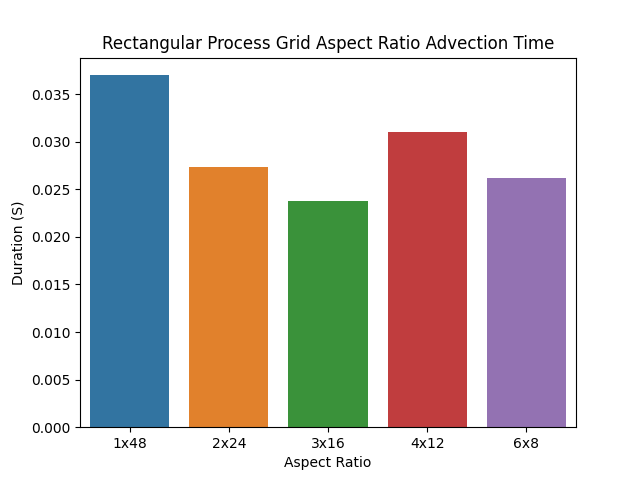
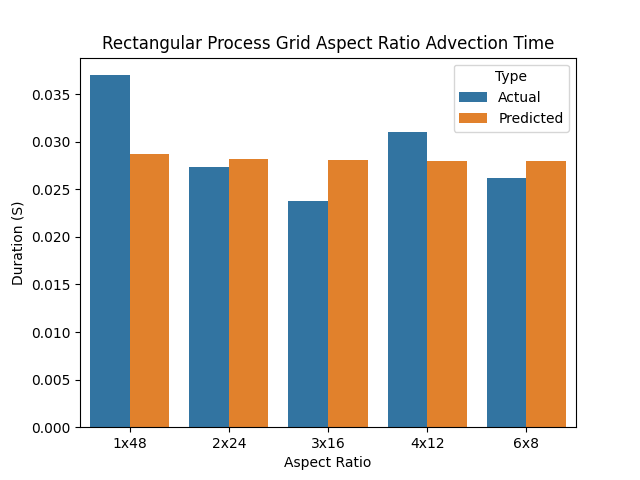
Created script for graphing aspect ratios

Changed region(s): [[0.4375, 0.125, 0.9062, 0.9062], [0.1875, 0.1562, 0.4375, 0.9062]]

diff --git a/aspect.py b/aspect.py
@@ -9,7 +9,7 @@ t_w = 6.469449853897094e-10
 t_f = 1.8141993761502122e-09
 
 def model(r,m,n,p,q):
-    return r * (2 * (((4 * m * t_w)/(p)) + t_s) + ((m * n * t_f)/(p * q)))
+    return r * (8 * (((m * t_w) / p) + ((n * t_w) / q) + (2 * t_w) + t_s) + ((m * n * t_f)/(p * q)))
 
 processes = [
     "1x48",
@@ -33,6 +33,7 @@ duration = [
     3.10e-02,
     2.62e-02
 ]
+duration_pred = [model(100,2048,2048,p,q) for (p,q) in [(1,48),(2,24),(3,16),(4,12),(6,8)]]
 duration_2 = [
     1.21e+00,
     3.65e-01,
@@ -41,13 +42,19 @@ duration_2 = [
     7.15e-02,
     3.83e-02
 ]
+duration_2_pred = [model(100,2048,2048,p,p) for p in [1,2,3,4,5,6]]
+d_type = (["Actual"] * 5) + (["Predicted"] * 5)
+d_type_2 = (["Actual"] * 6) + (["Predicted"] * 6)
 
-data = pd.DataFrame({"Aspect Ratio": processes, "Duration (S)": duration})
-data2 = pd.DataFrame({"Aspect Ratio": processes_2, "Duration (S)": duration_2})
+print("Rectangular:", list(map(lambda a: "{:e}".format(a), duration_pred)))
+print("Square:", list(map(lambda a: "{:e}".format(a), duration_2_pred)))
+
+data = pd.DataFrame({"Aspect Ratio": processes + processes, "Duration (S)": duration + duration_pred, "Type": d_type})
+data2 = pd.DataFrame({"Aspect Ratio": processes_2 + processes_2, "Duration (S)": duration_2 + duration_2_pred, "Type": d_type_2})
 
 # f, axes = plt.subplots(1, 2, sharey=True)
-# sns.barplot(y = "Duration (S)", x = "Aspect Ratio", data = data)
-sns.barplot(y = "Duration (S)", x = "Aspect Ratio", data = data2)
+sns.barplot(y = "Duration (S)", x = "Aspect Ratio", data = data, hue = "Type")
+#sns.barplot(y = "Duration (S)", x = "Aspect Ratio", data = data2, hue = "Type")
 # plt.ticklabel_format(style="scientific", axis="y", scilimits=(0,0))
-plt.title("Square Process Grid Aspect Ratio Advection Time")
+plt.title("Rectangular Process Grid Aspect Ratio Advection Time")
 plt.show()
